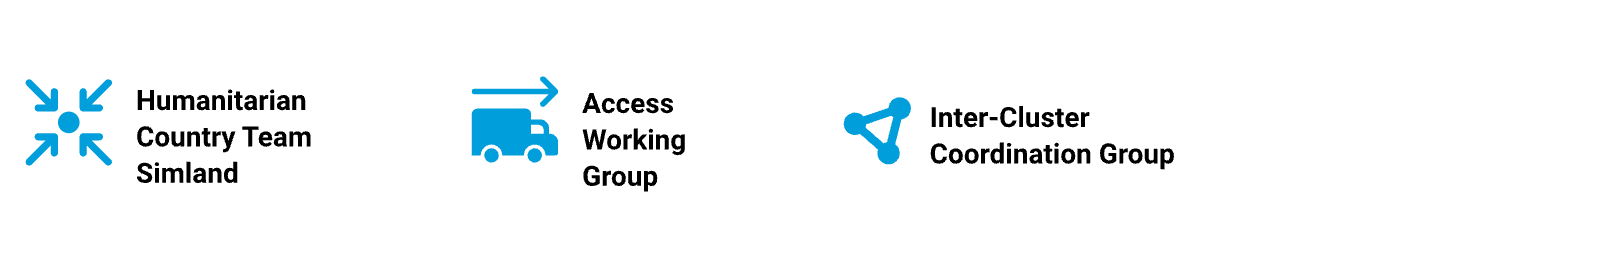
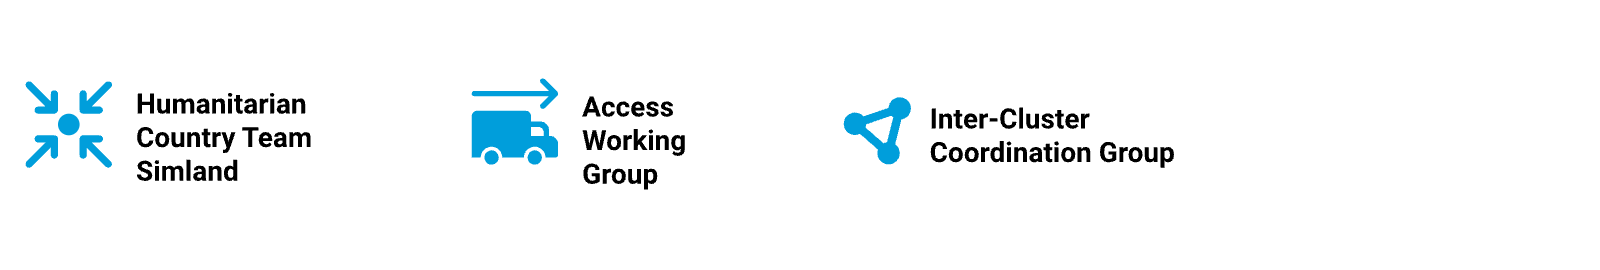
Wordmark Generator: line spacing 1.2 instead of 1.3
Holds multi-line text together as one block; on 3 lines the text block now
matches the icon's height. Brand-site example strip rebuilt to match.

diff --git a/word-mark-generator/index.html b/word-mark-generator/index.html
@@ -1947,7 +1947,9 @@
         const numLines = lines.length;
 
         const fontSize = WORDMARK_FONT_SIZES[numLines];
-        const lineHeight = fontSize * 1.3;
+        // 1.2 (was 1.3 until 26 Nov 2026, Javier): holds multi-line text together as
+        // one block; on 3 lines the text block then matches the icon's height.
+        const lineHeight = fontSize * 1.2;
         const spacing = 12;
         const iconBoxSize = 48; // Icon is always 48×48, never cropped
 

diff --git a/CLAUDE.md b/CLAUDE.md
@@ -57,6 +57,15 @@ How-to for people is in `README.md`. This file keeps decisions, sources and open
 - The built-in test browser draws only a few frames a second while its pane is hidden, so check moves with
   paused animations (`getAnimations()`, `currentTime`), not by timing.
 
+### Wordmark geometry (26 Nov 2026)
+
+- Line spacing 1.2 (was 1.3), Javier’s choice after a side-by-side comparison. The rest of the formula is
+  kept for now. Reviewed and left open: uneven empty space at the file edges (icon right-aligned in a fixed
+  48 px box), wide icons coming out shorter (all fitted to the same square), hand-tuned −3/+2 px icon
+  offsets for 2 and 3 lines, cap height assumed 0.70 (font file: 0.711).
+- Approved wordmarks are drawn again at download time, so any geometry change also changes how already
+  approved ones download. A versioned formula would need a version or date field from the Apps Script backend.
+
 ### Brand-site examples (26 Nov 2026)
 
 - `word-mark-generator/examples/` is the source of the “Examples of wordmarks” image on the brand-site page
